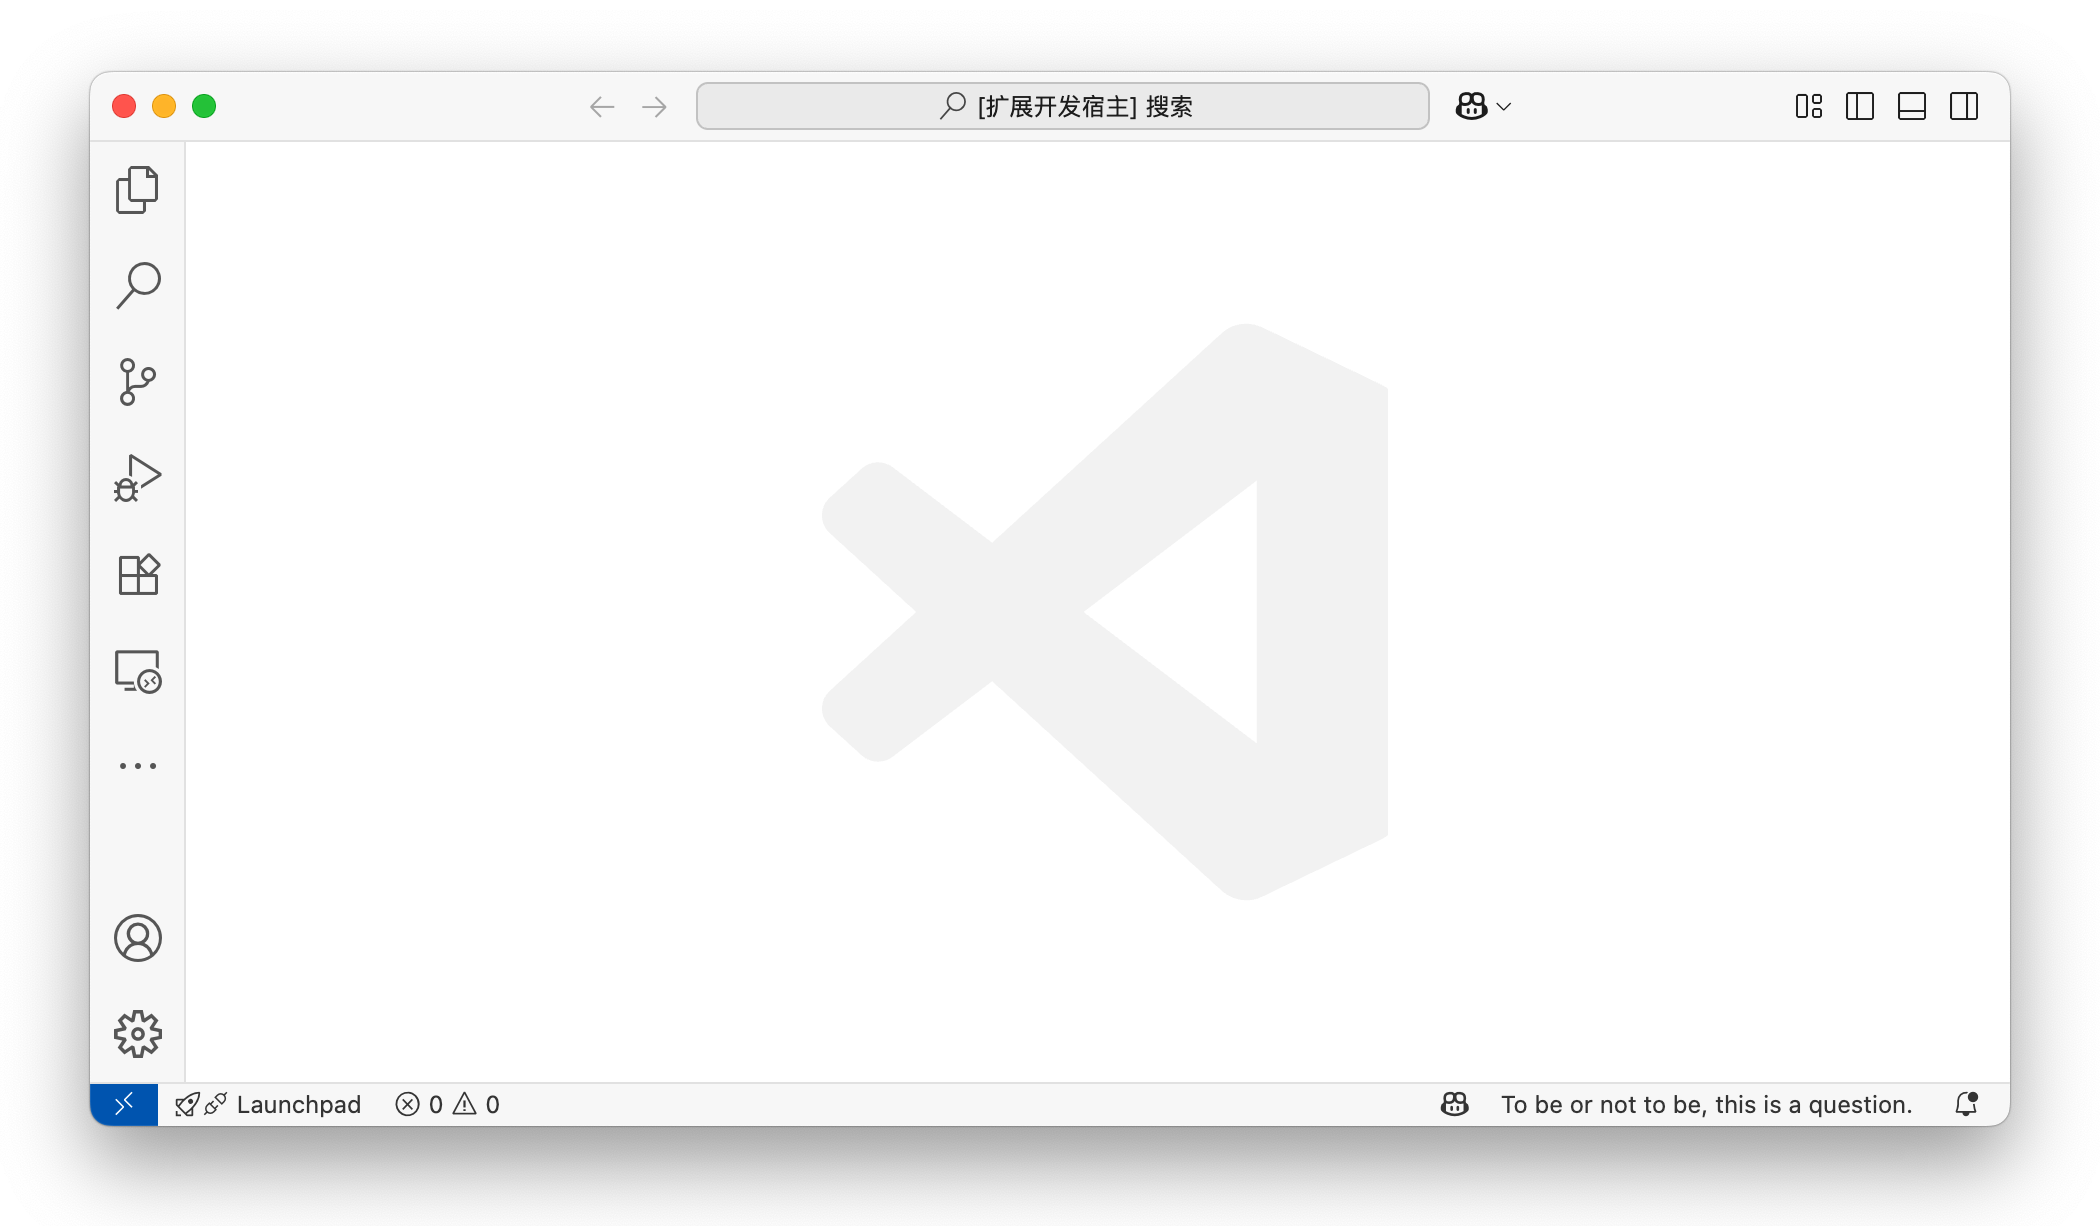
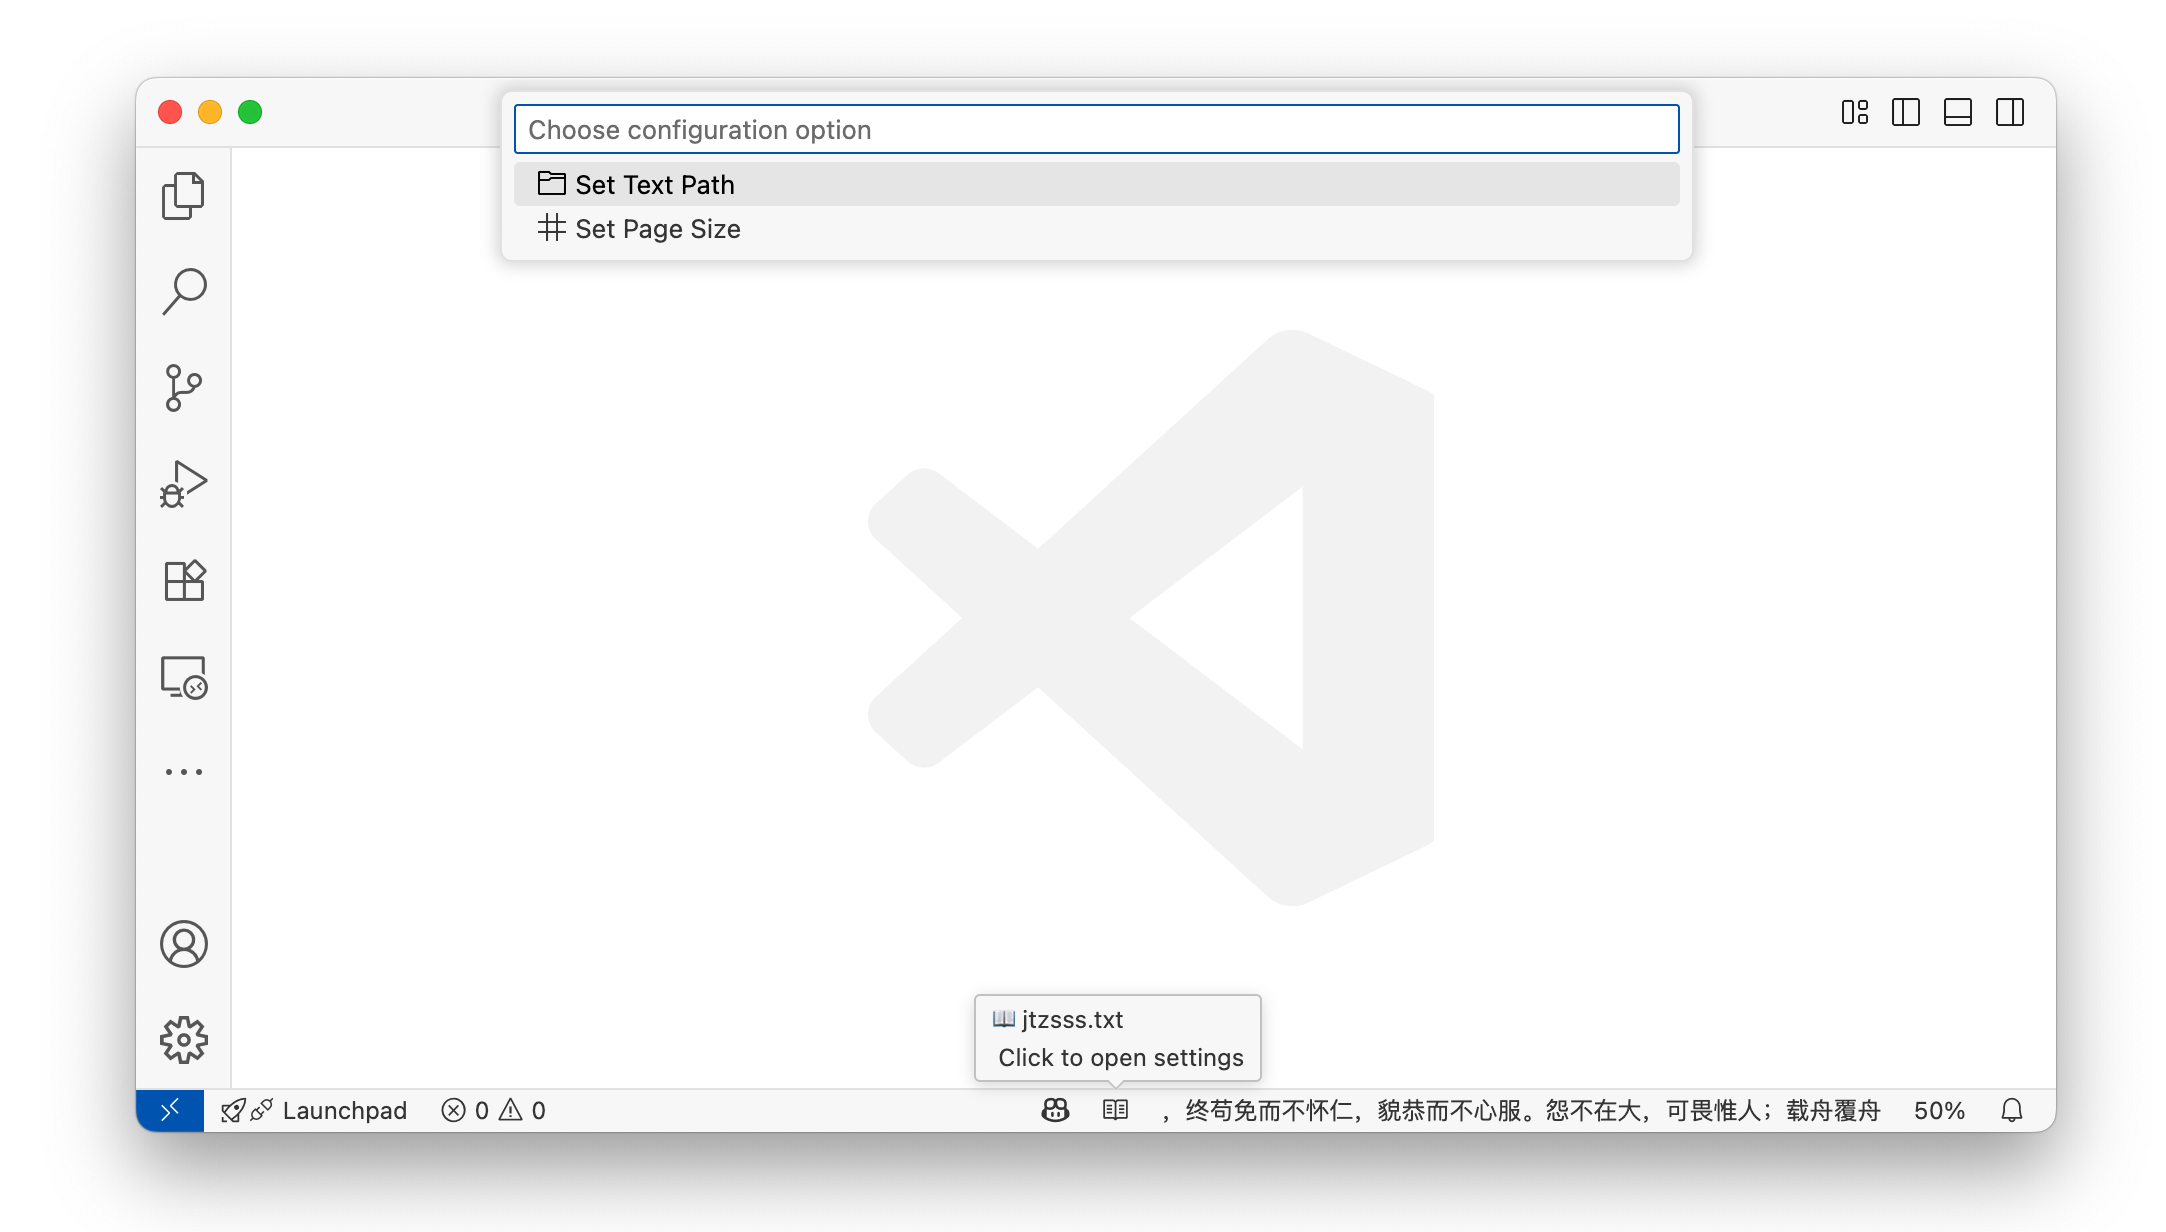
feat: v1.0.2

diff --git a/src/extension.ts b/src/extension.ts
@@ -10,11 +10,12 @@ const CONFIG_SECTION = 'sreader';
 const CONFIG_TEXT_PATH = 'textPath';
 const CONFIG_PAGE_SIZE = 'pageSize';
 
-
 // state key
 const STATE_OFFSET = 'sreader.offset'; // stored as { [filePath: string]: number }
 
-let panel: vscode.StatusBarItem | undefined;
+let operationPanel: vscode.StatusBarItem | undefined;
+let progressPanel: vscode.StatusBarItem | undefined;
+let contentPanel: vscode.StatusBarItem | undefined;
 let textContent: string = '';
 let pageSize: number = 20;
 let textPath: string = '';
@@ -32,7 +33,26 @@ function loadText(): string {
 	}
 	try {
 		// Local file only!
-		return fs.readFileSync(path.isAbsolute(textPath) ? textPath : path.join(vscode.workspace.workspaceFolders?.[0].uri.fsPath || '', textPath), 'utf-8');
+		let fullPath: string;
+		let workspaceFolder: vscode.WorkspaceFolder | undefined;
+        if (path.isAbsolute(textPath)) {
+            fullPath = textPath;
+        } else {
+            workspaceFolder = vscode.workspace.workspaceFolders?.[0];
+            if (!workspaceFolder) {
+                vscode.window.showErrorMessage('No workspace folder found.');
+                return '';
+            }
+            fullPath = path.join(workspaceFolder.uri.fsPath, textPath);
+        }
+        
+        const resolvedPath = path.resolve(fullPath);
+        if (workspaceFolder && !resolvedPath.startsWith(workspaceFolder.uri.fsPath) && !path.isAbsolute(textPath)) {
+            vscode.window.showErrorMessage('Invalid file path: outside workspace.');
+            return '';
+        }
+        
+        return fs.readFileSync(resolvedPath, 'utf-8');
 	} catch (e) {
 		vscode.window.showErrorMessage('Unable to read file due to: ' + e);
 		return '';
@@ -46,24 +66,107 @@ function getPage(offset: number): string {
 	return textContent.substring(offset, offset + pageSize);
 }
 
-function showPanel(context: vscode.ExtensionContext, offset: number) {
-	if (!panel) {
-		panel = vscode.window.createStatusBarItem(vscode.StatusBarAlignment.Right);
-		context.subscriptions.push(panel);
+function showPanels(context: vscode.ExtensionContext, offset: number) {
+	if (!operationPanel) {
+		operationPanel = vscode.window.createStatusBarItem(vscode.StatusBarAlignment.Right);
+		operationPanel.command = 'sreader.openSettings';
+		operationPanel.text = '$(book)';
+		operationPanel.tooltip = `📖 ${path.basename(textPath)}\n Click to open settings`;
+		context.subscriptions.push(operationPanel);
 	}
-	panel.show();
-	console.log('Showing panel at offset:', offset);
-	updatePanel(context, offset);
+	if (!progressPanel) {
+		progressPanel = vscode.window.createStatusBarItem(vscode.StatusBarAlignment.Right);
+		context.subscriptions.push(progressPanel);
+	}
+	if (!contentPanel) {
+		contentPanel = vscode.window.createStatusBarItem(vscode.StatusBarAlignment.Right);
+		context.subscriptions.push(contentPanel);
+	}
+	operationPanel.show();
+	progressPanel.show();
+	contentPanel.show();
+	updatePanels(context, offset);
 }
 
-function updatePanel(context: vscode.ExtensionContext, offset: number) {
-	if (!panel) {
+async function openSettings() {
+	const action = await vscode.window.showQuickPick([
+		{ label: '$(folder) Set Text Path', value: 'textPath' },
+		{ label: '$(symbol-numeric) Set Page Size', value: 'pageSize' },
+	], {
+		placeHolder: 'Choose configuration option'
+	});
+
+	if (action) {
+		const config = vscode.workspace.getConfiguration(CONFIG_SECTION);
+
+		switch (action.value) {
+			case 'textPath':
+				const newPath = await vscode.window.showInputBox({
+					prompt: 'Enter text file path',
+					value: config.get<string>(CONFIG_TEXT_PATH, ''),
+					placeHolder: 'e.g., /path/to/your/text/file.txt'
+				});
+				if (newPath !== undefined) {
+					await config.update(CONFIG_TEXT_PATH, newPath, vscode.ConfigurationTarget.Global);
+					vscode.commands.executeCommand('sreader.show');
+					vscode.window.showInformationMessage('Text path updated');
+				}
+				break;
+			case 'pageSize':
+				const newSize = await vscode.window.showInputBox({
+					prompt: 'Enter page size (characters per page)',
+					value: config.get<number>(CONFIG_PAGE_SIZE, 20).toString(),
+					validateInput: (value) => {
+						const num = parseInt(value);
+						return isNaN(num) || num <= 0 ? 'Please enter a positive number' : null;
+					}
+				});
+				if (newSize !== undefined) {
+					await config.update(CONFIG_PAGE_SIZE, parseInt(newSize), vscode.ConfigurationTarget.Global);
+					vscode.commands.executeCommand('sreader.show');
+					vscode.window.showInformationMessage('Page size updated');
+				}
+				break;
+		}
+	}
+}
+
+function hidePanels(dispose: boolean = false) {
+	if (operationPanel) {
+		if (dispose) {
+			operationPanel.dispose();
+		} else {
+			operationPanel.hide();
+		}
+		operationPanel = undefined;
+	}
+	if (progressPanel) {
+		if (dispose) {
+			progressPanel.dispose();
+		} else {
+			progressPanel.hide();
+		}
+		progressPanel = undefined;
+	}
+	if (contentPanel) {
+		if (dispose) {
+			contentPanel.dispose();
+		} else {
+			contentPanel.hide();
+		}
+		contentPanel = undefined;
+	}
+}
+
+function updatePanels(context: vscode.ExtensionContext, offset: number) {
+	if (!contentPanel || !progressPanel) {
 		return;
 	}
-	const page = getPage(offset).replace(/\n/g, ' ');
-	panel.text = page;
+	// Calculate progress
+	const progress = textContent.length > 0 ? Math.round((offset / textContent.length) * 100) : 0;
+	contentPanel.text = getPage(offset).replace(/\n/g, ' ');
+	progressPanel.text = `${progress}%`;
 }
-
 
 export function activate(context: vscode.ExtensionContext) {
 	getConfig();
@@ -73,6 +176,8 @@ export function activate(context: vscode.ExtensionContext) {
 	let offsetMap = context.globalState.get<{ [file: string]: number }>(STATE_OFFSET, {});
 	// current file offset
 	let offset = offsetMap[textPath] ?? 0;
+	// max file offset
+	let maxOffset = Math.max(0, textContent.length - pageSize);
 
 	function saveOffset(newOffset: number) {
 		offsetMap[textPath] = newOffset;
@@ -81,45 +186,40 @@ export function activate(context: vscode.ExtensionContext) {
 
 	context.subscriptions.push(
 		vscode.commands.registerCommand('sreader.show', () => {
-			console.log('sreader.show');
 			getConfig();
 			textContent = loadText();
 			// get offsetMap and current offset
 			offsetMap = context.globalState.get<{ [file: string]: number }>(STATE_OFFSET, {});
 			offset = offsetMap[textPath] ?? 0;
-			showPanel(context, offset);
+			maxOffset = Math.max(0, textContent.length - pageSize);
+			showPanels(context, offset);
+		}),
+		vscode.commands.registerCommand('sreader.openSettings', async () => {
+			await openSettings();
 		}),
 		vscode.commands.registerCommand('sreader.pageUp', () => {
 			offset = Math.max(0, offset - pageSize);
 			saveOffset(offset);
-			updatePanel(context, offset);
+			updatePanels(context, offset);
 		}),
 		vscode.commands.registerCommand('sreader.pageDown', () => {
-			offset = Math.min(textContent.length - 1, offset + pageSize);
+			offset = Math.min(maxOffset, offset + pageSize);
 			saveOffset(offset);
-			updatePanel(context, offset);
+			updatePanels(context, offset);
 		}),
 		vscode.commands.registerCommand('sreader.hide', () => {
-			if (panel) {
-				panel.hide();
-			}
+			hidePanels();
 		}),
 		vscode.commands.registerCommand('sreader.quit', () => {
 			saveOffset(offset);
-			if (panel) {
-				panel.dispose();
-				panel = undefined;
-			}
+			hidePanels(true);
 		}),
 		vscode.commands.registerCommand('sreader.clear', () => {
 			context.globalState.update(STATE_OFFSET, {});
-			if (panel) {
-				panel.dispose();
-				panel = undefined;
-			}
+			hidePanels(true);
 			vscode.window.showInformationMessage('All saved offsets have been cleared.');
 		})
 	);
 }
 
-export function deactivate() {}
+export function deactivate() { }

diff --git a/README.md b/README.md
@@ -9,22 +9,25 @@ Secret reader, a handy tool to quietly read local text files at the far right of
 - Show/hide content
 - Quit reading at any time
 - Clear all reading progress
+- Click "book" to setting configuration 
 
 ## Installation
 
-1. Search for `sreader` in the VS Code Extension Marketplace and install it.
+1. Available on VS Code Marketplace - search for "sreader".
 2. Or build from source and install via VSIX.
 
 ## Usage
 
+**Tip**: We recommend setting up keyboard shortcuts for the main commands for the most seamless reading experience!
+
 1. Configure the local text file path (`sreader.textPath`) and page size (`sreader.pageSize`) in the settings.
-2. Use the Command Palette (Cmd+Shift+P) and enter the following commands:
-   - `Show Secret`: Show content
-   - `Page Up Secret`: Previous page
-   - `Page Down Secret`: Next page
-   - `Hide Secret content`: Hide content
-   - `Quit Secret reader`: Quit reading
-   - `Clear all secret offsets`: Clear the reading progress
+2. Use the vscode Command Palette and enter the following commands:
+   - `Show Secret`: Display content
+   - `Page Up Secret`: Navigate to previous page  
+   - `Page Down Secret`: Navigate to next page
+   - `Hide Secret Content`: Hide the content panels
+   - `Quit Secret Reader`: Completely quit and clean up
+   - `Clear All Secret Offsets`: Reset all reading progress
 
 The content will be displayed as a single line at the far right of the status bar, perfect for discreet reading.
 

diff --git a/CHANGELOG.md b/CHANGELOG.md
@@ -1,5 +1,12 @@
 # Change Log
 
+## [1.0.2]
+
+- Added a new "book" icon (📖) in the status bar that allows you to quickly access configuration settings
+- Added progress indicator showing reading percentage
+- Better organized status bar with separate panels for operations, progress, and content
+- Improved tooltips showing current file name and helpful hints
+
 ## [1.0.1]
 
 - Add clear the reading progress
